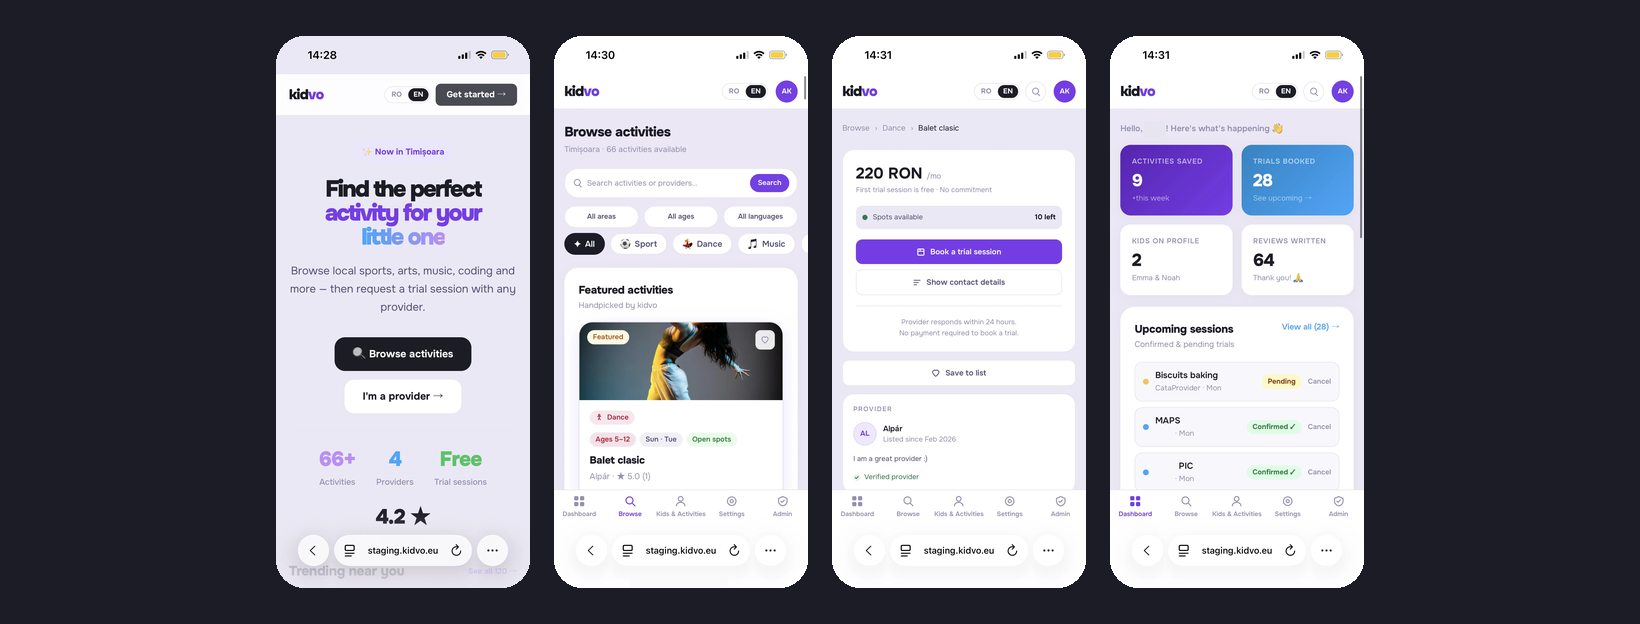
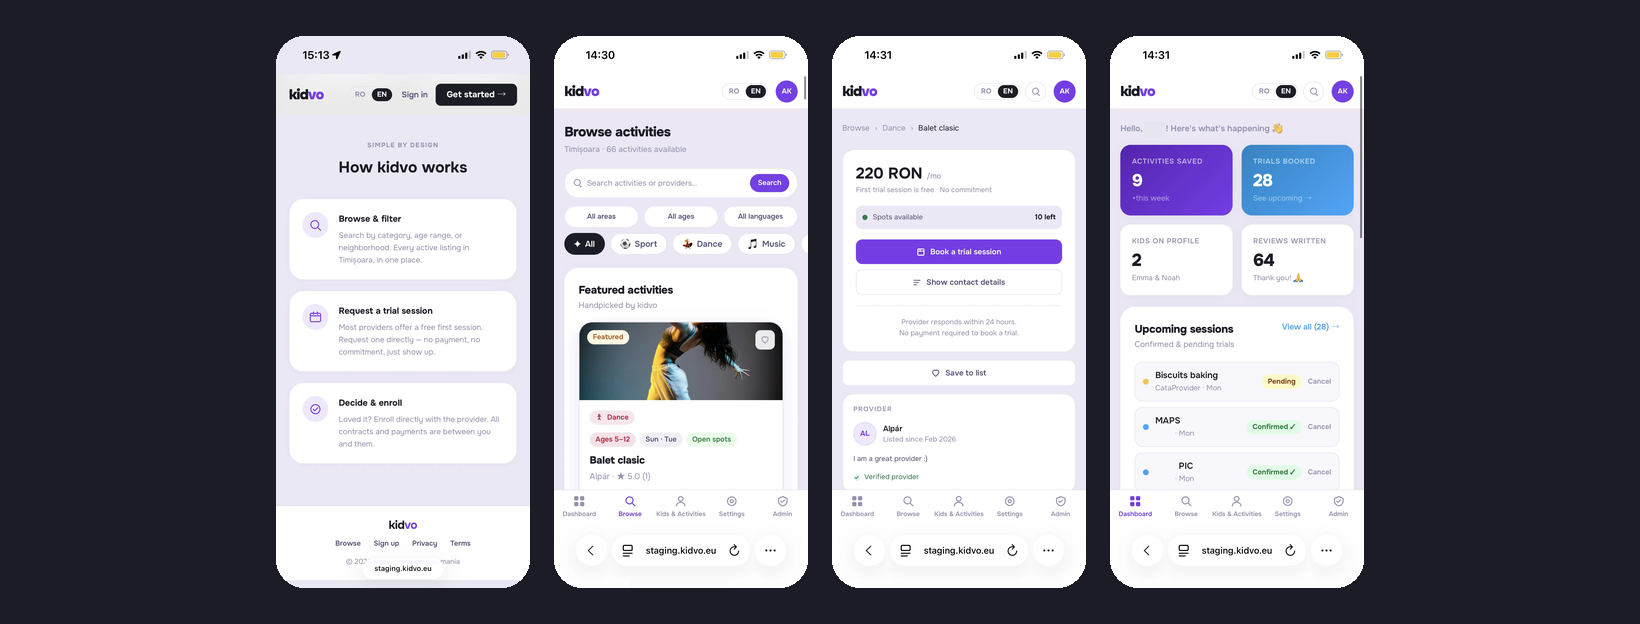
Swap first screenshots in parents + providers showcase
- Parents: new 'How it works' screenshot replaces landing page hero
- Providers: new 'For providers' card screenshot replaces old first screen
- Updated labels/captions in both RO and EN translations
- Regenerated Facebook cover with new first parent screenshot

diff --git a/src/components/ui/PhoneShowcase.tsx b/src/components/ui/PhoneShowcase.tsx
@@ -5,12 +5,12 @@ import { useTranslations, useLocale } from 'next-intl'
 // RO vs EN image file mappings
 const IMAGES = {
   parents: {
-    ro: ['IMG_6826', 'IMG_6833', 'IMG_6834', 'IMG_6837'],
-    en: ['IMG_6827', 'IMG_6832', 'IMG_6835', 'IMG_6836'],
+    ro: ['new_parent1_ro', 'IMG_6833', 'IMG_6834', 'IMG_6837'],
+    en: ['new_parent1_en', 'IMG_6832', 'IMG_6835', 'IMG_6836'],
   },
   providers: {
-    ro: ['IMG_6838', 'IMG_6841', 'IMG_6842', 'IMG_6864'],
-    en: ['IMG_6839', 'IMG_6840', 'IMG_6843', 'IMG_6866'],  // IMG_6866 = anonymised EN trial requests
+    ro: ['new_provider1_ro', 'IMG_6841', 'IMG_6842', 'IMG_6864'],
+    en: ['new_provider1_en', 'IMG_6840', 'IMG_6843', 'IMG_6866'],
   },
 }
 
